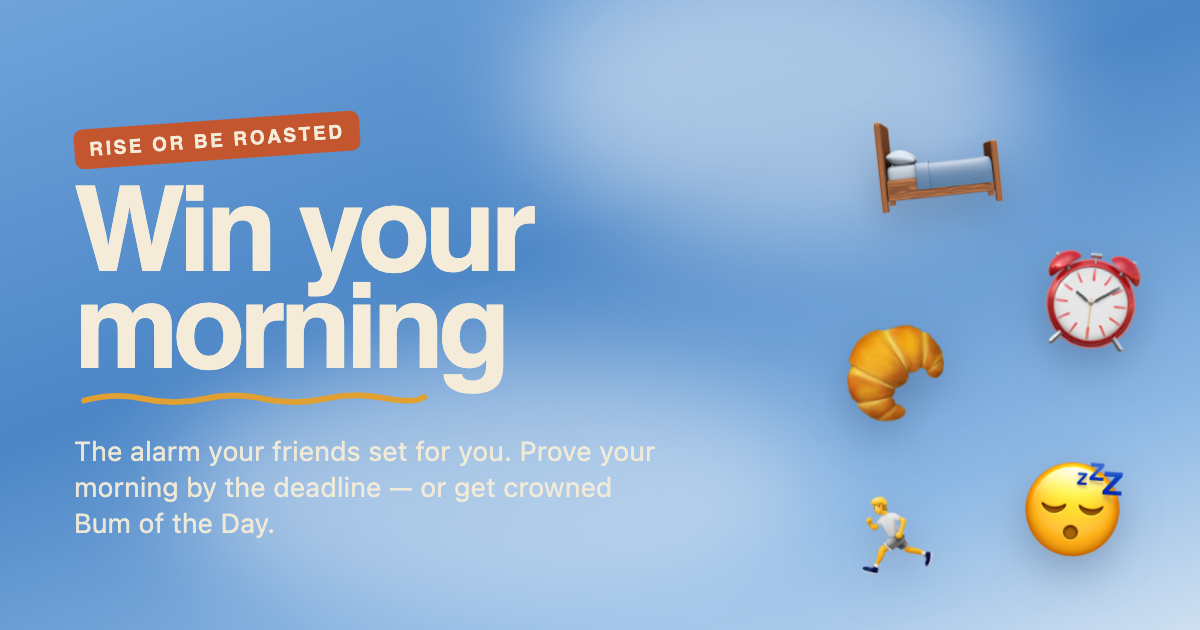
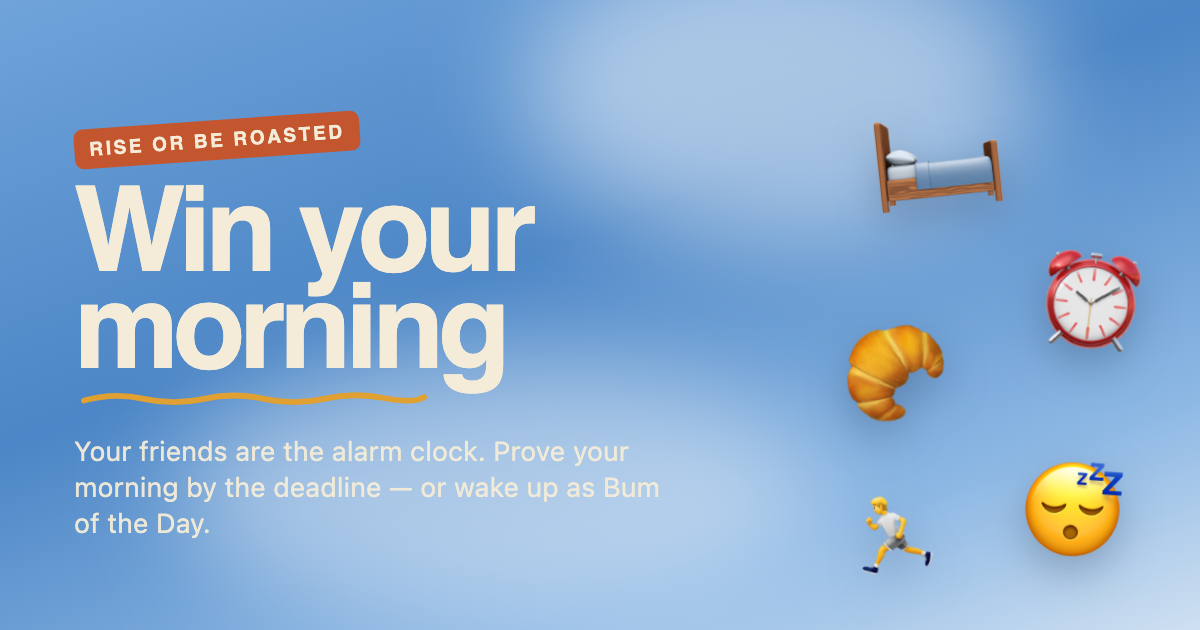
Landing: new caption, font split, hover states, joined state, one-screen fit
- Caption → "Your friends are the alarm clock…" (+ meta/og/og.png)
- Primary font (Bricolage) reserved for the "Win your morning" wordmark + the
  buttons; everything else on the secondary system face
- Buttons lift + brighten to amber on hover
- Joined: the text box is replaced by the signed-up email; the button turns
  forest ("YOU'RE IN ☀") so the sun actually reads; counter becomes
  "N people ready to win their mornings" and ticks up by one
- Hero is 100svh with the body locked to no-scroll, so it's always one screen
  (short laptops shrink the headline to keep the form on screen)

Changed region(s): [[0.0617, 0.6937, 0.555, 0.8143], [0.0617, 0.8143, 0.2467, 0.8444]]

diff --git a/index.html b/index.html
@@ -3,8 +3,8 @@
 <head>
 <meta charset="utf-8">
 <meta name="viewport" content="width=device-width, initial-scale=1">
-<title>Win Your Morning — the alarm your friends set for you</title>
-<meta name="description" content="The alarm your friends set for you. Promise your morning the night before, prove it with a photo before the squad's deadline — or get crowned Bum of the Day.">
+<title>Win Your Morning — your friends are the alarm clock</title>
+<meta name="description" content="Your friends are the alarm clock. Make your promises the night before, prove it with a photo by the deadline, or wake up as Bum of the Day.">
 
 <link rel="icon" href="assets/favicon.svg" type="image/svg+xml">
 <link rel="apple-touch-icon" href="assets/apple-touch-icon.png">
@@ -12,12 +12,12 @@
 
 <meta property="og:type" content="website">
 <meta property="og:title" content="Win Your Morning">
-<meta property="og:description" content="The alarm your friends set for you. Promise your morning the night before, prove it with a photo before the squad's deadline — or get crowned Bum of the Day.">
+<meta property="og:description" content="Your friends are the alarm clock. Make your promises the night before, prove it with a photo by the deadline, or wake up as Bum of the Day.">
 <meta property="og:url" content="https://kurogboun.github.io/win-your-morning-legal/">
 <meta property="og:image" content="https://kurogboun.github.io/win-your-morning-legal/assets/og.png">
 <meta name="twitter:card" content="summary_large_image">
 <meta name="twitter:title" content="Win Your Morning">
-<meta name="twitter:description" content="The alarm your friends set for you. Prove your morning before the squad's deadline — or get crowned Bum of the Day.">
+<meta name="twitter:description" content="Your friends are the alarm clock. Prove your morning by the deadline — or wake up as Bum of the Day.">
 <meta name="twitter:image" content="https://kurogboun.github.io/win-your-morning-legal/assets/og.png">
 
 <link rel="preconnect" href="https://fonts.googleapis.com">
@@ -30,19 +30,24 @@
     --paper:#FFFFFF; --ink:#1E2A24; --forest:#2E4A3B; --forest-d:#22382E;
     --terra:#C4562F; --terra-soft:#DB7A54; --gold:#E0A032; --amber:#F2B84B;
     --cream:#F4ECD8; --plum:#3A2E4A;
-    --cta:#E0A032; --cta-text:#1E2A24;
+    --cta:#E0A032; --cta-text:#1E2A24; --cta-hover:#F2B84B;
+    /* Primary = the display face (the "Win your morning" wordmark + buttons);
+       secondary = system text for everything else. */
+    --font-primary:'Bricolage Grotesque',sans-serif;
+    --font-secondary:-apple-system,'SF Pro Text',system-ui,sans-serif;
   }
-  html,body{margin:0}
-  body{font-family:'Bricolage Grotesque',sans-serif; background:#4C86C6; color:var(--ink); -webkit-font-smoothing:antialiased;}
-  a{color:var(--terra); text-decoration:none}
-  a:hover{color:var(--terra-soft)}
+  html,body{margin:0; height:100%}
+  /* One screen, no scroll — the hero IS the viewport (see .hero height). */
+  body{font-family:var(--font-secondary); background:#4C86C6; color:var(--ink);
+       -webkit-font-smoothing:antialiased; overflow:hidden}
+  a{text-decoration:none}
 
   /* Full-bleed: the sky runs edge to edge (no max-width here), so a wide screen
      never shows the body colour as side bands. */
   .page{width:100%; margin:0 auto; overflow:hidden; background:var(--paper)}
 
   /* ── Hero ─────────────────────────────────────────────────────────── */
-  .hero{position:relative; min-height:940px; overflow:hidden; display:flex; flex-direction:column;
+  .hero{position:relative; height:100svh; overflow:hidden; display:flex; flex-direction:column;
         background:linear-gradient(178deg,#6FA3DA 0%,#4C86C6 34%,#8DB8E4 72%,#CFE0F1 100%);}
   /* The layout stays composed in a centred 1440 frame; only the sky bleeds full
      width. Floaters/nav/content anchor to THIS, so they never fly to the edges
@@ -70,34 +75,49 @@
   /* ── Nav ──────────────────────────────────────────────────────────── */
   .nav{position:relative; z-index:3; display:flex; align-items:center; justify-content:space-between; padding:26px 44px}
   .brand{display:flex; align-items:center; gap:8px; color:var(--cream)}
-  .brand span{font-size:13px; font-weight:800; letter-spacing:-.01em; line-height:.9}
-  .nav-cta{display:inline-flex; align-items:center; font-size:15px; font-weight:700;
-           color:var(--cta-text); background:var(--cta); padding:13px 24px; border-radius:999px}
+  .brand span{font-family:var(--font-primary); font-size:13px; font-weight:800; letter-spacing:-.01em; line-height:.9}
+  .nav-cta{display:inline-flex; align-items:center; font-family:var(--font-primary); font-size:15px; font-weight:700;
+           color:var(--cta-text); background:var(--cta); padding:13px 24px; border-radius:999px;
+           transition:background .16s ease, transform .16s ease}
+  .nav-cta:hover{background:var(--cta-hover); transform:translateY(-1px)}
+  .nav-cta:active{transform:translateY(0)}
 
   /* ── Hero content ─────────────────────────────────────────────────── */
   .content{position:relative; z-index:3; padding:66px 72px 40px; max-width:820px}
   .kicker{display:inline-block; transform:rotate(-4deg); background:var(--terra); color:var(--cream);
           font-size:11px; font-weight:800; letter-spacing:.14em; padding:7px 12px; border-radius:8px}
-  h1{margin:26px 0 0; font-size:clamp(52px,13vw,150px); font-weight:800; line-height:.8;
-     letter-spacing:-.05em; color:var(--cream)}
+  h1{margin:26px 0 0; font-family:var(--font-primary); font-size:clamp(52px,13vw,150px); font-weight:800;
+     line-height:.8; letter-spacing:-.05em; color:var(--cream)}
   .squiggle{display:block; margin-top:12px; width:min(420px,64%); height:auto}
   .caption{font-family:-apple-system,'SF Pro Text',system-ui,sans-serif;
            font-size:clamp(17px,2vw,26px); line-height:1.4; color:rgba(244,236,216,.92);
            margin-top:28px; max-width:560px}
 
   form{display:flex; align-items:center; gap:10px; margin-top:36px; max-width:560px}
-  .email{flex:1; min-width:0; font-family:-apple-system,'SF Pro Text',system-ui,sans-serif;
+  .email{flex:1; min-width:0; font-family:var(--font-secondary);
          font-size:17px; color:var(--ink); background:var(--cream);
          border:1px solid rgba(30,42,36,.14); border-radius:16px; padding:18px 20px; outline:none}
-  .email:disabled{opacity:.85}
-  .join{font-family:'Bricolage Grotesque',sans-serif; font-size:19px; font-weight:700; letter-spacing:-.01em;
+  /* The signed-up email, shown in place of the input once joined. */
+  .signed{flex:1; min-width:0; display:none; align-items:center; gap:9px;
+          font-family:var(--font-secondary); font-size:17px; font-weight:600; color:var(--ink);
+          background:rgba(244,236,216,.92); border-radius:16px; padding:18px 20px;
+          overflow:hidden; text-overflow:ellipsis; white-space:nowrap}
+  .signed.show{display:flex}
+  .signed .tick{color:var(--forest); font-weight:800}
+  .join{font-family:var(--font-primary); font-size:19px; font-weight:700; letter-spacing:-.01em;
         color:var(--cta-text); background:var(--cta); border:0; border-radius:16px; padding:19px 30px;
-        cursor:pointer; white-space:nowrap; transition:opacity .15s}
+        cursor:pointer; white-space:nowrap; transition:background .16s ease, color .16s ease, transform .16s ease}
+  .join:hover:not(:disabled){background:var(--cta-hover); transform:translateY(-1px)}
+  .join:active:not(:disabled){transform:translateY(0)}
   .join:disabled{cursor:default; opacity:.9}
+  /* Joined: forest ground + cream text so the ☀ actually reads (it disappeared
+     into the gold). Full opacity even though the button is now disabled. */
+  .join.done{background:var(--forest); color:var(--cream); opacity:1}
   .hp{position:absolute; left:-9999px; width:1px; height:1px; opacity:0; overflow:hidden}
   .msg{min-height:16px; font-family:-apple-system,system-ui,sans-serif; font-size:14px;
        color:var(--cream); margin-top:12px; max-width:560px}
-  .counter{font-size:11px; font-weight:700; letter-spacing:.16em; color:rgba(244,236,216,.78); margin-top:14px}
+  .counter{font-family:var(--font-secondary); font-size:13px; font-weight:600; letter-spacing:.01em;
+           color:rgba(244,236,216,.85); margin-top:16px}
 
   /* ── Tablet ───────────────────────────────────────────────────────── */
   @media (max-width:1024px){
@@ -106,9 +126,16 @@
     #f7{display:none}
   }
 
+  /* ── Short laptops: shrink so it still fits one screen (no scroll) ──── */
+  @media (min-width:641px) and (max-height:820px){
+    .content{padding-top:40px; padding-bottom:24px}
+    h1{font-size:clamp(44px,8vw,104px)}
+    .caption{margin-top:18px; font-size:clamp(16px,1.6vw,21px)}
+    form{margin-top:24px}
+  }
+
   /* ── Phone ────────────────────────────────────────────────────────── */
   @media (max-width:640px){
-    .hero{min-height:100svh}
     .nav{padding:18px 20px}
     .nav-cta{font-size:13px; padding:10px 16px}
     /* Keep the top-cluster five, hide the ones that would sit over the copy. */
@@ -167,15 +194,16 @@
       <span class="kicker">RISE OR BE ROASTED</span>
       <h1>Win your<br>morning</h1>
       <svg class="squiggle" width="420" height="24" viewBox="0 0 420 24" fill="none" stroke="#E0A032" stroke-width="7" stroke-linecap="round" aria-hidden="true"><path d="M6 15 Q 42 5 78 13 T 150 13 T 222 13 T 294 13 T 366 12 T 414 11"></path></svg>
-      <p class="caption">The alarm your friends set for you. Promise your morning the night before, prove it with a photo before the squad's deadline — or get crowned Bum of the Day.</p>
+      <p class="caption">Your friends are the alarm clock. Make your promises the night before, prove it with a photo by the deadline, or wake up as Bum of the Day.</p>
 
       <form id="get" novalidate>
         <input class="email" id="email" type="email" inputmode="email" autocomplete="email" placeholder="Your email" aria-label="Your email" />
         <input class="hp" id="website" name="website" type="text" tabindex="-1" autocomplete="off" aria-hidden="true" />
+        <div class="signed" id="signedEmail"></div>
         <button class="join" id="joinBtn" type="submit">Join the waitlist</button>
       </form>
       <div class="msg" id="formMsg" role="status" aria-live="polite"></div>
-      <div class="counter" id="counter">68 PEOPLE AHEAD OF YOU</div>
+      <div class="counter" id="counter">68 people ready to win their mornings</div>
     </div>
     </div>
   </section>
@@ -191,25 +219,39 @@
   var btn = document.getElementById('joinBtn');
   var hp = document.getElementById('website');
   var counter = document.getElementById('counter');
+  var signed = document.getElementById('signedEmail');
   var msg = document.getElementById('formMsg');
 
-  function renderJoined(n) {
+  function counterText(n) { return n + ' people ready to win their mornings'; }
+
+  function renderJoined(email, n) {
+    // Swap the text box for the email they signed up with.
+    input.style.display = 'none';
+    if (email) {
+      signed.innerHTML = '<span class="tick">✓</span> ';
+      signed.appendChild(document.createTextNode(email));
+      signed.classList.add('show');
+    }
+    // The button turns forest so the ☀ actually reads (it vanished on gold).
     btn.textContent = "YOU'RE IN ☀";
+    btn.classList.add('done');
     btn.disabled = true;
-    input.disabled = true;
-    if (n) counter.textContent = "YOU'RE #" + n + " ON THE LIST";
+    if (n) counter.textContent = counterText(n); // incremented — you're counted now
     msg.textContent = '';
   }
 
-  // Returning visitor who already joined on this device.
-  if (localStorage.getItem(KEY)) renderJoined();
+  // Returning visitor who already joined on this device — restore email + count.
+  var saved = null;
+  try { saved = JSON.parse(localStorage.getItem(KEY) || 'null'); } catch (e) {}
+  var alreadyJoined = !!(saved && saved.email);
+  if (alreadyJoined) renderJoined(saved.email, saved.n);
 
   // Live count — silently leaves the static "68" fallback if it fails.
-  fetch(API).then(function (r) { return r.json(); }).then(function (d) {
-    if (d && d.ok && typeof d.count === 'number' && !localStorage.getItem(KEY)) {
-      counter.textContent = d.count + ' PEOPLE AHEAD OF YOU';
-    }
-  }).catch(function () {});
+  if (!alreadyJoined) {
+    fetch(API).then(function (r) { return r.json(); }).then(function (d) {
+      if (d && d.ok && typeof d.count === 'number') counter.textContent = counterText(d.count);
+    }).catch(function () {});
+  }
 
   form.addEventListener('submit', function (e) {
     e.preventDefault();
@@ -227,8 +269,8 @@
       body: JSON.stringify({ email: email, source: src, website: hp.value })
     }).then(function (r) { return r.json(); }).then(function (d) {
       if (d && d.ok && d.joined) {
-        localStorage.setItem(KEY, '1');
-        renderJoined(d.count);
+        try { localStorage.setItem(KEY, JSON.stringify({ email: email, n: d.count })); } catch (e2) {}
+        renderJoined(email, d.count);
       } else {
         btn.disabled = false;
         btn.textContent = restore;

diff --git a/assets/og-source.html b/assets/og-source.html
@@ -39,7 +39,7 @@
       <span class="kicker">RISE OR BE ROASTED</span>
       <h1>Win your<br>morning</h1>
       <svg class="sq" width="360" height="20" viewBox="0 0 420 24" fill="none" stroke="#E0A032" stroke-width="7" stroke-linecap="round"><path d="M6 15 Q 42 5 78 13 T 150 13 T 222 13 T 294 13 T 366 12 T 414 11"></path></svg>
-      <p class="tag">The alarm your friends set for you. Prove your morning by the deadline — or get crowned Bum of the Day.</p>
+      <p class="tag">Your friends are the alarm clock. Prove your morning by the deadline — or wake up as Bum of the Day.</p>
     </div>
   </div>
 </body></html>
